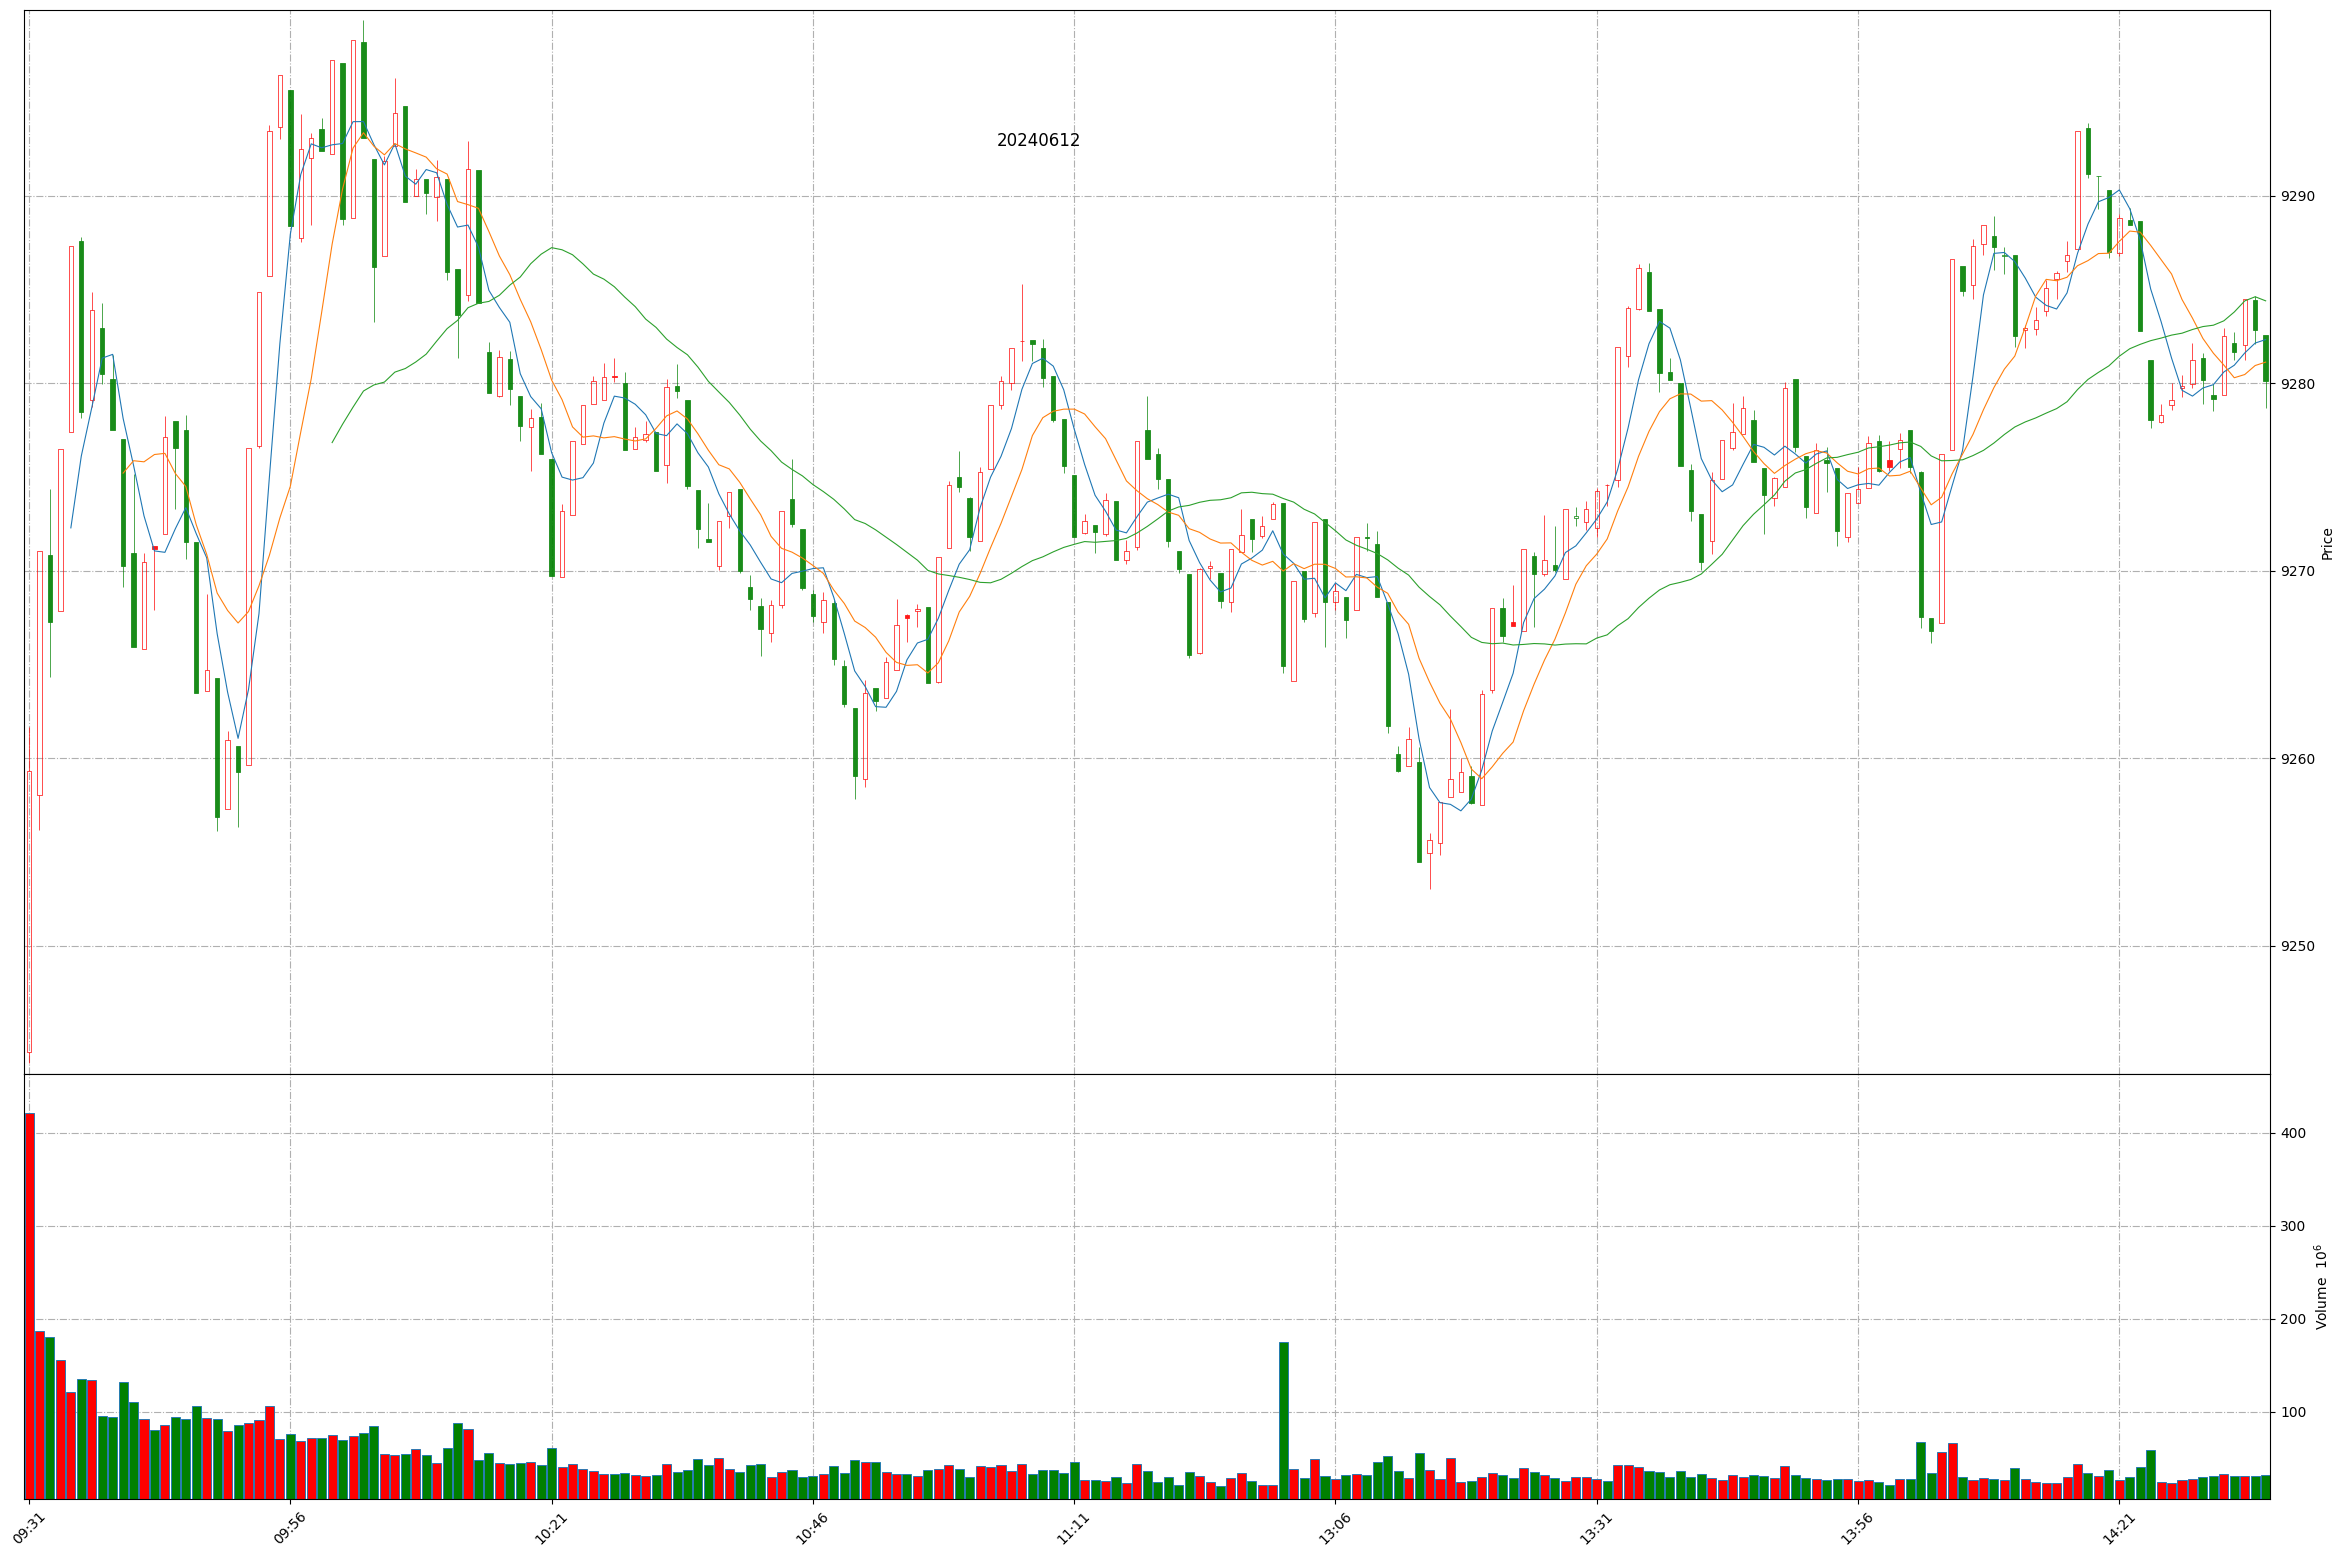
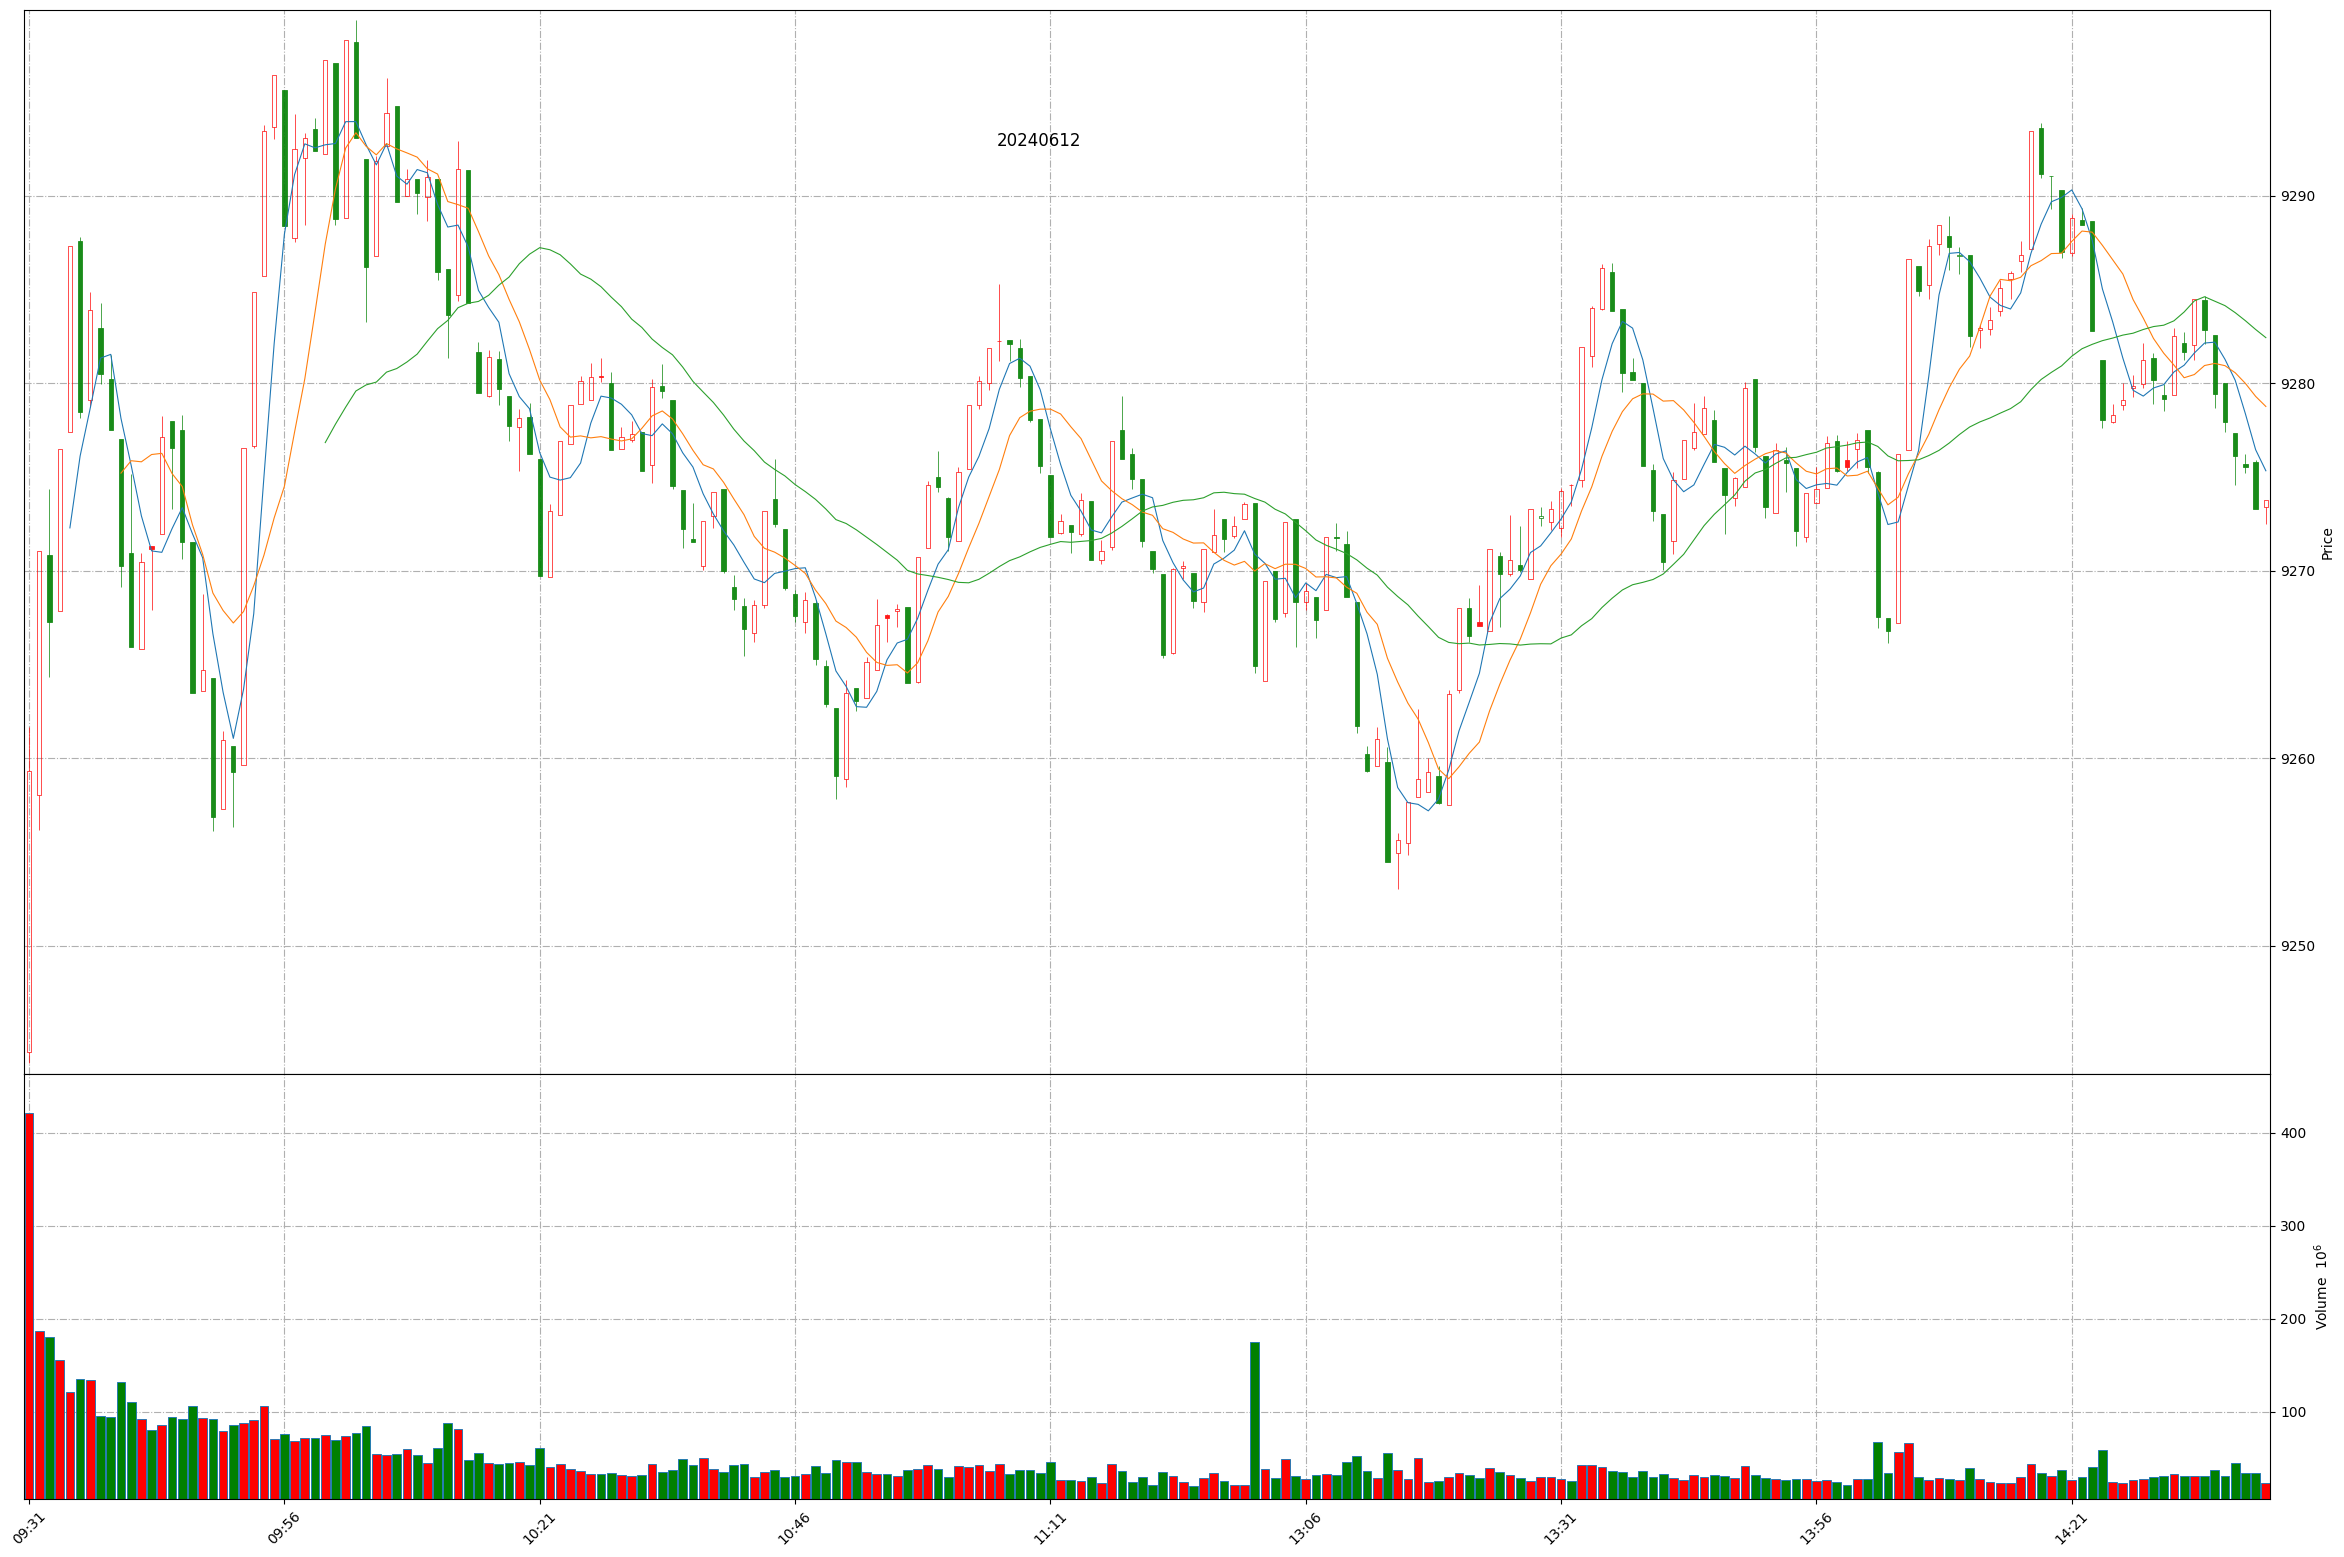
Github action update at 2024-06-12 14:40:10.

Changed region(s): [[0.0311, 0.0308, 0.9654, 0.5549], [0.0311, 0.8632, 0.9654, 0.9865]]

diff --git a/README.md b/README.md
@@ -1,11 +1,11 @@
 
 # Daily-A-share-market-quotes 每日 A 股指数（5min 更新）- 20240612
 
-### 上证指数 20240612 14:34
+### 上证指数 20240612 14:40
 ![](./fig/2024/6/20240612-sh000001.png)
 
-### 深证成指 20240612 14:34
+### 深证成指 20240612 14:40
 ![](./fig/2024/6/20240612-sz399001.png)
 
-### 北证50 20240612 14:34
+### 北证50 20240612 14:40
 ![](./fig/2024/6/20240612-bj899050.png)
